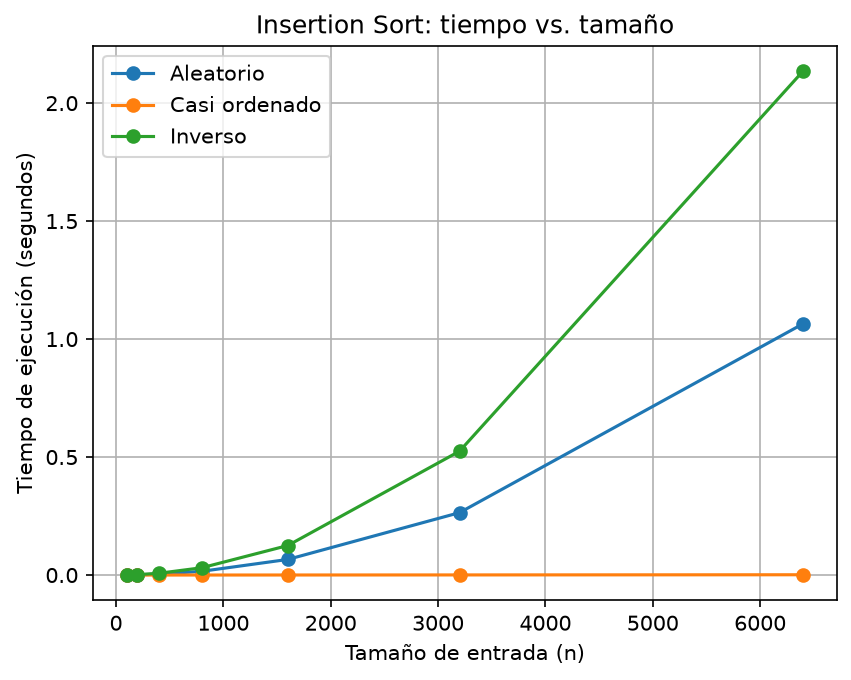
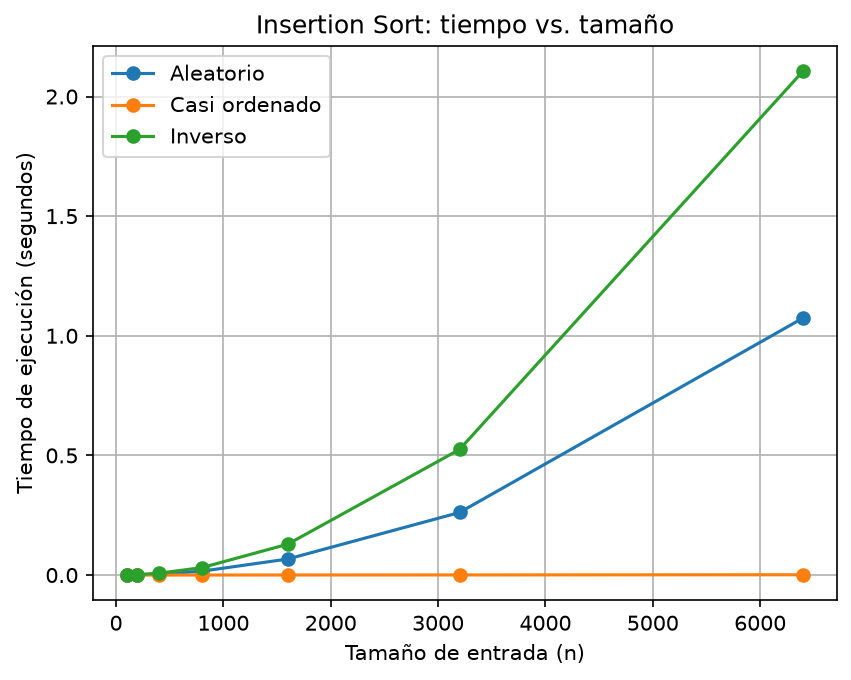
Completa README con resultados experimentales

diff --git a/lab1-fundamentos-complejidad-recurrencias/README.md b/lab1-fundamentos-complejidad-recurrencias/README.md
@@ -1,0 +1,318 @@
+# Laboratorio 1 — Fundamentos, complejidad y recurrencias
+
+**Estudiante:** Samuel Cristobal Cuello Duque
+**Curso:** Análisis de Algoritmos
+**Laboratorio:** Fundamentos, complejidad y recurrencias
+
+---
+
+## Reproducción del laboratorio
+
+Para ejecutar el laboratorio se requiere Python 3 y la biblioteca `matplotlib`.
+
+Desde la carpeta `lab1-fundamentos-complejidad-recurrencias` se ejecutan los experimentos con:
+
+```bash
+python parte3_casos.py
+```
+
+Este programa ejecuta las pruebas de `insertion_sort` sobre los tres escenarios y genera:
+
+* `graficas/parte3_comparaciones.png`
+* `graficas/parte3_tiempo.png`
+
+Para ejecutar la comparación entre `insertion_sort` y `merge_sort` se utiliza:
+
+```bash
+python parte4_complejidad.py
+```
+
+Este programa genera:
+
+* `graficas/parte4_tiempo.png`
+
+La generación de los datos se realiza antes de iniciar la medición del tiempo, por lo que el tiempo registrado corresponde únicamente a la ejecución del algoritmo de ordenamiento.
+
+---
+
+# Parte 1 — Corrección vs. eficiencia
+
+La **corrección** de un algoritmo significa que este produce el resultado esperado para todas las entradas válidas. En el caso de la plataforma Tamiza, un algoritmo de ordenamiento es correcto si organiza los registros de acuerdo con el criterio solicitado, es decir, de mayor a menor índice de riesgo.
+
+La **eficiencia** está relacionada con los recursos que necesita el algoritmo para obtener ese resultado, principalmente el tiempo de ejecución y la memoria utilizada. Por lo tanto, un algoritmo puede ser correcto y aun así no ser apropiado para un problema real si tarda demasiado en ejecutarse.
+
+En Tamiza existe una restricción estricta de tiempo, ya que el procesamiento debe realizarse entre las 2:00 a. m. y las 6:00 a. m. Esto significa que existe una ventana máxima de cuatro horas para procesar y ordenar los registros. Si el algoritmo produce una lista correctamente ordenada, pero no termina dentro de ese intervalo, no cumple con las necesidades de la plataforma.
+
+Utilizar un servidor con el doble de velocidad puede disminuir el tiempo de ejecución, pero no modifica la complejidad del algoritmo. Si la cantidad de registros continúa creciendo, un algoritmo con comportamiento cuadrático seguirá teniendo un crecimiento considerable en el número de operaciones.
+
+Un ejemplo de algoritmo correcto pero poco viable sería `insertion_sort` cuando se utiliza sobre una cantidad muy grande de registros. El algoritmo puede ordenar correctamente los datos, pero en entradas desfavorables necesita una gran cantidad de comparaciones y desplazamientos. Por esta razón, para Tamiza no es suficiente con verificar que el algoritmo sea correcto; también es necesario seleccionar una solución que sea eficiente y pueda cumplir la ventana de procesamiento establecida.
+
+---
+
+# Parte 2 — Responsabilidad ambiental y ética
+
+La eficiencia de un algoritmo también tiene relación con el consumo de recursos tecnológicos. Un algoritmo que necesita más tiempo de procesamiento mantiene los equipos trabajando durante más tiempo y puede aumentar el consumo de energía. Cuando se procesan grandes cantidades de información de manera frecuente, esta diferencia puede ser significativa.
+
+Un primer daño concreto es el **mayor consumo energético** debido a que los servidores necesitan permanecer ejecutando el proceso durante más tiempo. El costo directo lo asumiría la organización encargada de la plataforma mediante un mayor consumo de recursos de infraestructura.
+
+Un segundo daño es el **uso ineficiente de los recursos tecnológicos**. Comprar hardware más potente para compensar las deficiencias de un algoritmo puede aumentar los costos de infraestructura sin solucionar la causa principal del problema. Este costo también recaería sobre la organización y, en el caso de una entidad pública, sobre los recursos destinados a la prestación del servicio.
+
+También existe un aspecto ético importante. En Tamiza, el orden de los registros determina quién debe ser contactado primero de acuerdo con su índice de riesgo. Una lista incompleta, incorrectamente ordenada o que no termine dentro de la ventana de procesamiento podría provocar que personas con mayor riesgo sean contactadas después de personas con menor prioridad.
+
+Por esta razón, la eficiencia del algoritmo no solamente representa una decisión técnica. También puede tener consecuencias sobre el uso responsable de los recursos y sobre las personas que dependen de los resultados generados por el sistema.
+
+---
+
+# Parte 3 — Casos de entrada e instrumentación
+
+## 3.1 Mejor, peor y promedio caso
+
+Para un tamaño de entrada fijo `n`, el **mejor caso** representa la entrada que requiere la menor cantidad de operaciones o comparaciones.
+
+El **peor caso** representa la entrada que requiere la mayor cantidad de operaciones o comparaciones.
+
+El **caso promedio** representa el comportamiento esperado considerando diferentes entradas posibles del mismo tamaño.
+
+Los tres escenarios utilizados en el laboratorio son:
+
+* **Escenario A — Aleatorio:** los registros se encuentran en un orden sin relación con el orden requerido.
+* **Escenario B — Casi ordenado:** el 98 % de los registros ya se encuentra ordenado y el 2 % restante corresponde a nuevos resultados agregados al final.
+* **Escenario C — Inverso:** los registros se encuentran organizados en el sentido contrario al orden requerido.
+
+Debido a que Tamiza tiene una restricción estricta de cuatro horas, para producción no sería adecuado diseñar la solución basándose únicamente en el mejor caso. Se debe considerar principalmente el peor caso para garantizar que el procesamiento pueda terminar dentro de la ventana disponible.
+
+---
+
+## 3.2 Predicción antes de medir
+
+Antes de realizar las mediciones se esperaba que `insertion_sort` presentara diferentes comportamientos según el escenario.
+
+En el **escenario A (aleatorio)** se esperaba un comportamiento intermedio porque los elementos no tienen un orden previo definido.
+
+En el **escenario B (casi ordenado)** se esperaba el mejor comportamiento, debido a que la mayor parte de los datos ya se encuentra en el orden requerido y solamente una pequeña parte necesita ser procesada.
+
+En el **escenario C (inverso)** se esperaba el peor comportamiento, porque los elementos se encuentran organizados de manera contraria al orden requerido y el algoritmo necesita realizar una gran cantidad de comparaciones y desplazamientos.
+
+---
+
+## 3.3 Resultados de las comparaciones
+
+Las pruebas se realizaron con los tamaños:
+
+`100, 200, 400, 800, 1600, 3200 y 6400`.
+
+Los resultados obtenidos fueron:
+
+| Tamaño `n` |  Aleatorio | Casi ordenado |    Inverso |
+| ---------: | ---------: | ------------: | ---------: |
+|        100 |      2.542 |           100 |      4.950 |
+|        200 |      9.970 |           203 |     19.900 |
+|        400 |     40.436 |           417 |     79.800 |
+|        800 |    160.484 |           866 |    319.600 |
+|      1.600 |    648.481 |         1.851 |  1.279.200 |
+|      3.200 |  2.533.103 |         4.172 |  5.118.400 |
+|      6.400 | 10.276.753 |        10.277 | 20.476.800 |
+
+Los resultados muestran que el escenario **inverso** requiere la mayor cantidad de comparaciones. Para `n = 6400` se realizaron **20.476.800 comparaciones**.
+
+El escenario **aleatorio** presentó un resultado intermedio, con **10.276.753 comparaciones** para `n = 6400`.
+
+El escenario **casi ordenado** fue considerablemente más eficiente. Para `n = 6400` solamente se realizaron **10.277 comparaciones**.
+
+Estos resultados coinciden con la predicción inicial. El escenario casi ordenado es el más favorable para `insertion_sort`, mientras que el escenario inverso es el más costoso.
+
+![Comparaciones de insertion sort](graficas/parte3_comparaciones.png)
+
+---
+
+## 3.4 Resultados de tiempo
+
+Los tiempos obtenidos fueron:
+
+| Tamaño `n` | Aleatorio (s) | Casi ordenado (s) | Inverso (s) |
+| ---------: | ------------: | ----------------: | ----------: |
+|        100 |      0.000363 |          0.000012 |    0.000459 |
+|        200 |      0.001024 |          0.000020 |    0.001826 |
+|        400 |      0.003918 |          0.000047 |    0.007599 |
+|        800 |      0.016087 |          0.000100 |    0.030986 |
+|      1.600 |      0.066987 |          0.000213 |    0.129040 |
+|      3.200 |      0.261485 |          0.000485 |    0.524873 |
+|      6.400 |      1.074454 |          0.001209 |    2.106491 |
+
+El escenario **inverso** presentó los mayores tiempos de ejecución. Para `n = 6400`, `insertion_sort` tardó **2.106491 segundos**.
+
+El escenario **aleatorio** tardó **1.074454 segundos** para el mismo tamaño.
+
+Por otra parte, el escenario **casi ordenado** solamente tardó **0.001209 segundos** para `n = 6400`.
+
+La diferencia entre los escenarios se hace mucho más evidente a medida que aumenta el tamaño de la entrada. Esto demuestra experimentalmente que el orden inicial de los datos tiene una influencia importante sobre el rendimiento de `insertion_sort`.
+
+![Tiempo de insertion sort](graficas/parte3_tiempo.png)
+
+---
+
+## 3.5 Relación entre los resultados y la teoría
+
+Los resultados obtenidos son coherentes con la complejidad teórica de `insertion_sort`.
+
+En el mejor caso, cuando los datos ya se encuentran ordenados de acuerdo con el criterio requerido, el algoritmo realiza aproximadamente una comparación por elemento. Por esto:
+
+**Mejor caso: Θ(n)**
+
+Los datos casi ordenados muestran este comportamiento. Por ejemplo, al pasar de `n = 3200` a `n = 6400`, las comparaciones aumentan de 4.172 a 10.277, manteniéndose muy por debajo de los valores de los escenarios aleatorio e inverso.
+
+En el peor caso, cuando los datos están en el orden contrario, el algoritmo necesita realizar aproximadamente:
+
+**n(n - 1) / 2**
+
+comparaciones.
+
+Para `n = 6400`:
+
+**6400 × 6399 / 2 = 20.476.800**
+
+que coincide exactamente con las comparaciones obtenidas experimentalmente para el escenario inverso.
+
+Por lo tanto:
+
+**Peor caso: Θ(n²)**
+
+El escenario aleatorio también presenta un crecimiento cuadrático en promedio:
+
+**Caso promedio: Θ(n²)**
+
+Los resultados experimentales permiten comprobar que el comportamiento de `insertion_sort` depende considerablemente de la distribución inicial de los datos.
+
+---
+
+# Parte 4 — Complejidad y comparación de algoritmos
+
+## 4.1 Complejidad de Merge Sort
+
+Para `merge_sort` se tiene la recurrencia:
+
+**T(n) = 2T(n/2) + Θ(n)**
+
+La expresión indica que el problema se divide en dos subproblemas de tamaño `n/2` y posteriormente se realiza una operación de combinación con costo lineal.
+
+Mediante un árbol de recurrencia:
+
+* Nivel 0: `Θ(n)`
+* Nivel 1: `2 · Θ(n/2) = Θ(n)`
+* Nivel 2: `4 · Θ(n/4) = Θ(n)`
+* Nivel 3: `8 · Θ(n/8) = Θ(n)`
+* ...
+* Último nivel: aproximadamente `n` subproblemas de tamaño 1.
+
+Cada nivel tiene un costo total de `Θ(n)`.
+
+La cantidad de niveles es aproximadamente:
+
+**log₂(n)**
+
+Por lo tanto:
+
+**T(n) = Θ(n) · Θ(log n)**
+
+Finalmente:
+
+**T(n) = Θ(n log n)**
+
+Así, `merge_sort` presenta un crecimiento asintótico menor que `insertion_sort` en entradas grandes.
+
+---
+
+## 4.2 Complejidad de Insertion Sort
+
+En el mejor caso, los datos ya están ordenados de acuerdo con el criterio requerido. Se realiza una comparación por cada elemento después del primero:
+
+**T(n) = n - 1**
+
+Por lo tanto:
+
+**T(n) = Θ(n)**
+
+En el peor caso, cada nuevo elemento debe compararse con todos los elementos anteriores. La cantidad de comparaciones es:
+
+**1 + 2 + 3 + ... + (n - 1)**
+
+Esta suma corresponde a:
+
+**n(n - 1) / 2**
+
+Por lo tanto:
+
+**T(n) = Θ(n²)**
+
+En el caso promedio también se obtiene un comportamiento cuadrático:
+
+**T(n) = Θ(n²)**
+
+### Tabla comparativa
+
+| Algoritmo      | Mejor caso | Caso promedio | Peor caso  |
+| -------------- | ---------- | ------------- | ---------- |
+| Insertion Sort | Θ(n)       | Θ(n²)         | Θ(n²)      |
+| Merge Sort     | Θ(n log n) | Θ(n log n)    | Θ(n log n) |
+
+---
+
+## 4.3 Comparación experimental
+
+Se compararon `insertion_sort` y `merge_sort` utilizando el escenario aleatorio y los mismos tamaños de entrada.
+
+Los resultados fueron:
+
+| Tamaño `n` | Insertion Sort (s) | Merge Sort (s) |
+| ---------: | -----------------: | -------------: |
+|        100 |           0.000244 |       0.000166 |
+|        200 |           0.000921 |       0.000344 |
+|        400 |           0.003771 |       0.000753 |
+|        800 |           0.015894 |       0.001673 |
+|      1.600 |           0.065387 |       0.003601 |
+|      3.200 |           0.259574 |       0.007969 |
+|      6.400 |           1.074403 |       0.016237 |
+
+Los resultados muestran una diferencia cada vez mayor a medida que aumenta el tamaño de entrada.
+
+Para `n = 6400`, `insertion_sort` tardó **1.074403 segundos**, mientras que `merge_sort` tardó **0.016237 segundos**.
+
+Por lo tanto, en esta prueba `merge_sort` fue aproximadamente **66 veces más rápido** que `insertion_sort` para `n = 6400`.
+
+![Comparación de tiempos entre insertion sort y merge sort](graficas/parte4_tiempo.png)
+
+Las pequeñas diferencias que pueden aparecer en tamaños pequeños no contradicen la teoría. En estas escalas pueden influir factores como el sistema operativo, otros procesos ejecutándose en el equipo, la memoria y los costos internos de Python. A medida que aumenta `n`, el efecto de la complejidad algorítmica se vuelve más evidente.
+
+---
+
+# Parte 4.3 — Concepto técnico para el equipo de ingeniería
+
+Para la plataforma Tamiza se recomienda utilizar **merge sort** como algoritmo de ordenamiento para el procesamiento de los registros de riesgo.
+
+La principal razón es su complejidad temporal. `insertion_sort` presenta un comportamiento promedio y de peor caso de Θ(n²), mientras que `merge_sort` presenta un comportamiento de Θ(n log n). Esta diferencia es especialmente importante porque la plataforma debe procesar aproximadamente 1,2 millones de registros y cuenta con una ventana estricta de cuatro horas.
+
+Las mediciones realizadas permiten observar esta diferencia incluso con tamaños mucho menores. Para `n = 6400`, `insertion_sort` tardó **1.074403 segundos**, mientras que `merge_sort` tardó **0.016237 segundos**. Esto significa que, en esta prueba, `merge_sort` fue aproximadamente 66 veces más rápido.
+
+La estimación para 1,2 millones de registros debe considerarse una **extrapolación y no una medición directa**, porque las pruebas realizadas solamente llegaron hasta 6400 registros. Sin embargo, el comportamiento observado y las complejidades teóricas permiten anticipar que la diferencia entre ambos algoritmos aumentaría considerablemente al incrementar el tamaño de entrada.
+
+Por esta razón, no se considera que simplemente duplicar la velocidad del servidor sea la solución principal. Aunque un hardware más rápido puede reducir los tiempos de ejecución, no cambia la complejidad del algoritmo. Un algoritmo Θ(n²) continuará teniendo un crecimiento mucho mayor que uno Θ(n log n) cuando aumente la cantidad de registros.
+
+`merge_sort` tiene como desventaja que requiere memoria adicional para realizar la combinación de las listas. Sin embargo, esta desventaja resulta razonable frente a la mejora de tiempo obtenida en las pruebas. Además, su comportamiento es más predecible para diferentes tipos de entrada.
+
+Desde el punto de vista del mantenimiento y el riesgo, utilizar un algoritmo con mejor comportamiento asintótico disminuye la dependencia de incrementar constantemente la capacidad del hardware. Esto resulta importante para una plataforma que puede aumentar su volumen de registros con el tiempo.
+
+En conclusión, se recomienda reemplazar `insertion_sort` por `merge_sort` y posteriormente realizar una prueba de carga con una cantidad de registros cercana al volumen real de producción. La decisión debe centrarse principalmente en mejorar la solución algorítmica y utilizar el hardware como complemento, no como sustituto de una elección algorítmica adecuada.
+
+---
+
+# Conclusión general
+
+El laboratorio permitió comprobar experimentalmente la importancia de analizar tanto la corrección como la eficiencia de un algoritmo.
+
+En la Parte 3 se observó que `insertion_sort` presenta comportamientos muy diferentes dependiendo del orden inicial de los datos. El escenario casi ordenado fue el más favorable, con solamente **10.277 comparaciones y 0.001209 segundos** para `n = 6400`. En contraste, el escenario inverso alcanzó **20.476.800 comparaciones y 2.106491 segundos** para el mismo tamaño.
+
+Los resultados también coincidieron con la teoría: `insertion_sort` presenta un mejor caso de Θ(n), pero un caso promedio y peor caso de Θ(n²).
+
+En la Parte 4, la comparación experimental mostró una ventaja clara de `merge_sort`. Para `n = 6400`, `insertion_sort` tardó **1.074403 segundos**, mientras que `merge_sort` tardó **0.016237 segundos**, aproximadamente 66 veces menos tiempo.
+
+Por lo tanto, considerando el volumen de datos de Tamiza y la restricción de cuatro horas, `merge_sort` es una alternativa más adecuada que `insertion_sort`. El análisis demuestra que mejorar la complejidad del algoritmo es una decisión más importante que depender únicamente de aumentar la velocidad del hardware.
